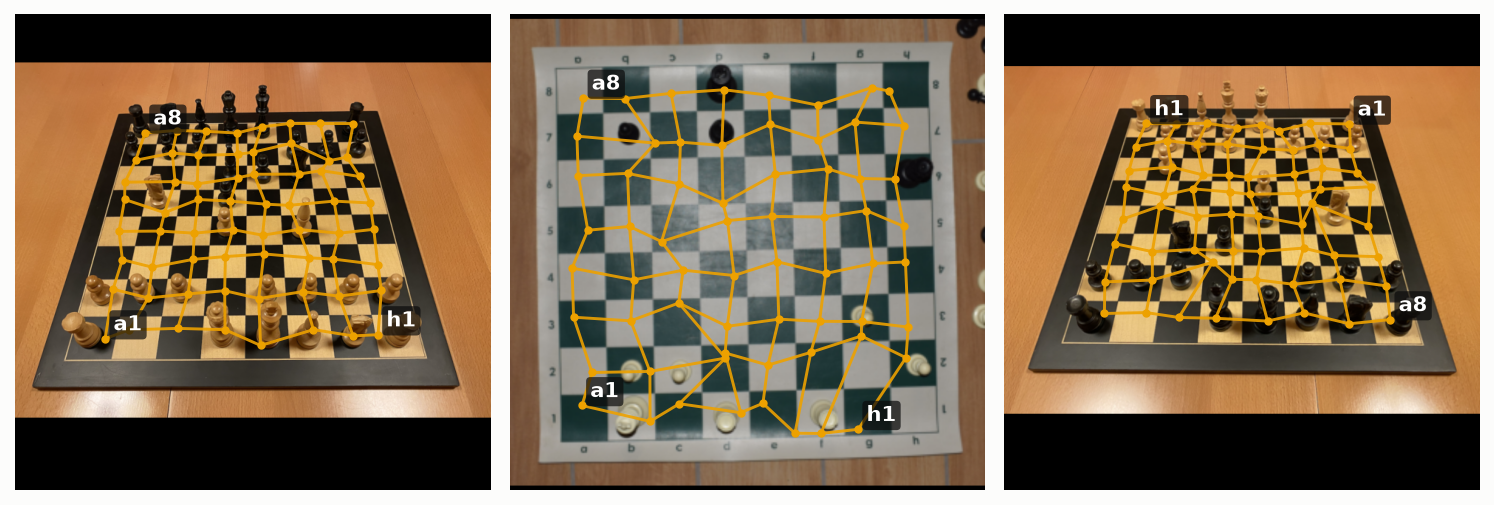
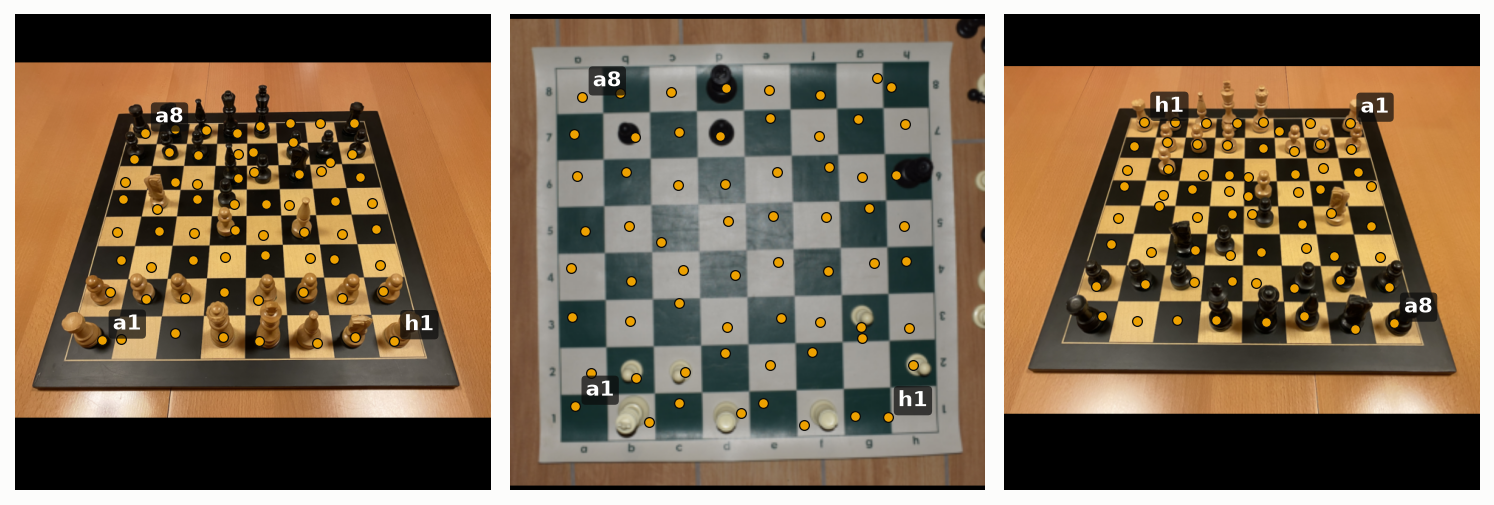
Show first-layer query peaks as dots; clarify ChessCog transfer set

diff --git a/scripts/make_figures.py b/scripts/make_figures.py
@@ -239,18 +239,22 @@ def explain_figure(weights: Path, image_path: Path, fen: str, squares: list[str]
     fig.savefig(output, dpi=150, bbox_inches="tight")
 
 
-def query_peaks(maps: torch.Tensor) -> np.ndarray:
-    """Pixel location [64, 2] of each square query's attention mass (sharpened centroid)."""
-    attention = maps.mean(0).flatten(1) ** 4  # emphasize the peak over diffuse context
+def query_peaks(attention_map: torch.Tensor) -> np.ndarray:
+    """Pixel location [64, 2] of each query's attention peak in one layer's map [64, 46, 46]."""
+    attention = attention_map.flatten(1) ** 4  # sharpened centroid: the peak, not diffuse context
     attention = attention / attention.sum(1, keepdim=True)
-    side = maps.shape[-1]
+    side = attention_map.shape[-1]
     ys, xs = torch.meshgrid(torch.arange(side), torch.arange(side), indexing="ij")
     centers = torch.stack([xs.flatten(), ys.flatten()], 1).float() * 14 + 7
     return (attention @ centers).numpy()
 
 
 def grid_figure(weights: Path, images: list[Path], output: Path):
-    """Connect the 64 query peaks along ranks and files: the board grid the model found."""
+    """Mark where each square query looks in the first decoder layer.
+
+    Only the first layer localizes squares (peaks fit a perspective grid to about a fifth of a
+    square); later layers attend widely for context, so they are not shown.
+    """
     u2netp = download_u2netp(Path("weights/u2netp.onnx"))
     model = load_model(weights, "cpu")
     fig, axes = plt.subplots(
@@ -259,17 +263,14 @@ def grid_figure(weights: Path, images: list[Path], output: Path):
     for ax, path in zip(np.atleast_1d(axes), images, strict=True):
         pixels = frame_board(load_image(path), weights=u2netp)
         _, maps = cross_attention(model, pixels)
-        peaks = query_peaks(maps).reshape(8, 8, 2)  # [rank 8..1, file a..h, xy]
+        peaks = query_peaks(maps[0]).reshape(8, 8, 2)  # [rank 8..1, file a..h, xy]
         ax.imshow(pixels.permute(1, 2, 0).numpy())
-        for i in range(8):
-            ax.plot(*peaks[i].T, color=YELLOW, lw=1.4, alpha=0.9)
-            ax.plot(*peaks[:, i].T, color=YELLOW, lw=1.4, alpha=0.9)
-        ax.scatter(*peaks.reshape(-1, 2).T, s=9, color=YELLOW, zorder=3)
+        ax.scatter(*peaks.reshape(-1, 2).T, s=22, color=YELLOW, edgecolor=INK, lw=0.6, zorder=3)
         for name, (r, f) in {"a1": (7, 0), "h1": (7, 7), "a8": (0, 0)}.items():
             ax.annotate(
                 name,
                 peaks[r, f],
-                xytext=(4, 4),
+                xytext=(5, 5),
                 textcoords="offset points",
                 color="white",
                 fontsize=10,

diff --git a/README.md b/README.md
@@ -27,7 +27,9 @@ Exact-board accuracy: all 64 squares right, with 95% Wilson intervals. Both mode
 same constrained decoding (below). On ChessReD, the one benchmark both were trained for, the
 two are within noise of each other. Square accuracy, wrong squares per board, and the
 prediction for every image are in [`results/`](results). No test image was used for
-training, model selection or tuning.
+training, model selection or tuning. ChessCog's training renders are in the training mix;
+its transfer set is real photos of a different physical set, which the ChessCog authors
+collected to test unseen sets.
 
 <p align="center"><img src="assets/examples.png" width="100%" alt="Exact predictions on unseen chess sets"></p>
 
@@ -44,11 +46,13 @@ transformer decoder and each predicts one of 13 classes.
 **Why square queries.** Classical pipelines detect corners, rectify the board and classify
 cropped squares, which breaks under occlusion, low angles and unusual sets. Here, square
 identity is built into each query (a learned embedding plus shared rank, file and color
-embeddings), so the network must *find* its square. It does: connecting each query's
-attention peak recovers a perspective-correct grid, including which side White sits on
-(right: the camera is behind Black, and a1 is top right).
+embeddings), so the network must *find* its square. It does, with no location supervision:
+in the first decoder layer each query's attention peak lands on its own square (within about
+a fifth of a square of a perfect perspective grid, median over the 29 transfer photos), and
+it knows which side White sits on (right: the camera is behind Black, and a1 is top right).
+Later layers attend more widely, gathering context from the rest of the board.
 
-<p align="center"><img src="assets/learned_grid.png" width="100%" alt="Attention peaks of the 64 square queries form the board grid on three unseen photos"></p>
+<p align="center"><img src="assets/learned_grid.png" width="100%" alt="First-layer attention peaks of the 64 square queries, one dot per square, on three unseen photos"></p>
 
 **Exact constrained decoding.** Per-square argmax can output two white kings. Fixing the two
 king squares makes every other square independent, so the best board with one king per
